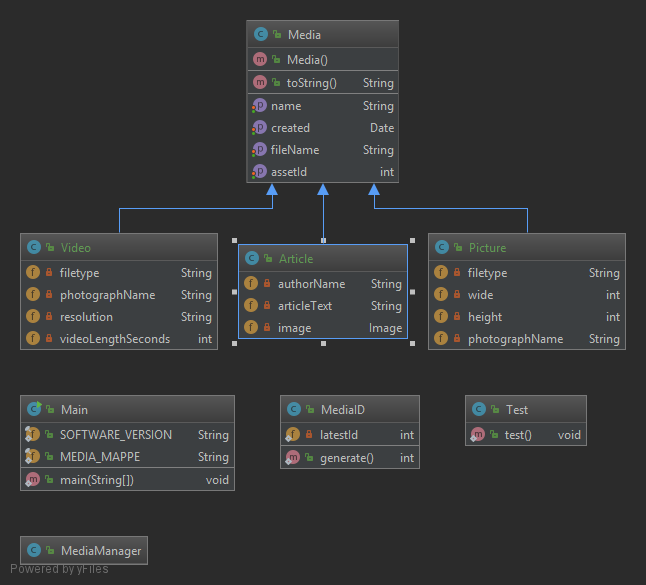
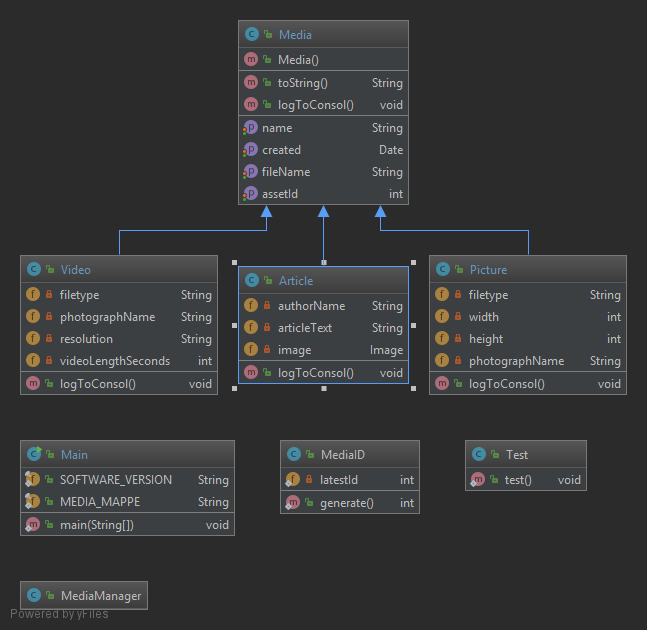
TV2 Media Manager comments and diagram Nedarvning Opgave 1,2,3,4,5,6

diff --git a/src/Main.java b/src/Main.java
@@ -1,3 +1,7 @@
+import java.io.File;
+import java.util.ArrayList;
+import java.util.Scanner;
+
 public class Main {
 // Belongs to the class, and it is final (cant be changed).
     public static final String SOFTWARE_VERSION = "0.1.0";
@@ -9,6 +13,72 @@ public class Main {
 
         Media media = new Article();
         media.logToConsol();
+
+        // gets the path for the Media folder.
+        logMediaFolder(MEDIA_MAPPE);
+        // gets the path for the Media folder.
+        readMediaFolderExtend(MEDIA_MAPPE);
+
+
     }
-}
+    // Creates the method for finding the media folder.
+    public static void logMediaFolder(String folderNavn){
+        File dir = new File(folderNavn);
+        File[] filesList = dir.listFiles();
+        for (File file : filesList) {
+            if (file.isFile()) {
+                System.out.println(file.getName());
+            }
+        }
+    }
+    // Creates the method for finding the media folder and returns it as an Arraylist.
+    public static File[] readMediaFolder(String folderNavn){
+        File dir = new File(folderNavn);
+        File[] filesList = dir.listFiles();
+        for (File file : filesList) {
+            if (file.isFile()) {
+                System.out.println(file.getName());
+
+
+
+
+            }
+        }
+        return filesList;
+    }
+
+    public static File[] readMediaFolderExtend(String folderNavn){
+        File dir = new File(folderNavn);
+        File[] filesList = dir.listFiles();
+        for (int i = 0; i < filesList.length; i++) {
+            if (filesList[i].isFile()){
+                String strings = filesList[i].toString();
+
+                if (strings.contains(".jpg") || strings.contains(".png") || strings.contains(".gif")) {
+                    Picture picture = new Picture();
+                    System.out.println("A new picture object was created ");
+                }
+
+                    else if (strings.contains(".mp4") || strings.contains(".m4v") || strings.contains(".mov")) {
+                    Video video = new Video();
+                    System.out.println("A new video object was created ");
+                }
+
+                        else if (strings.contains(".txt")) {
+                    Article article = new Article();
+                    System.out.println("A new article object was created ");
+                }
+                else{
+                    System.out.println("Filetype was not recognized ");
+                }
+                    }
+                    else{
+                System.out.println("file was not recognized");
+            }
+                }
+return filesList;
+            }
+
+        }
+
 
